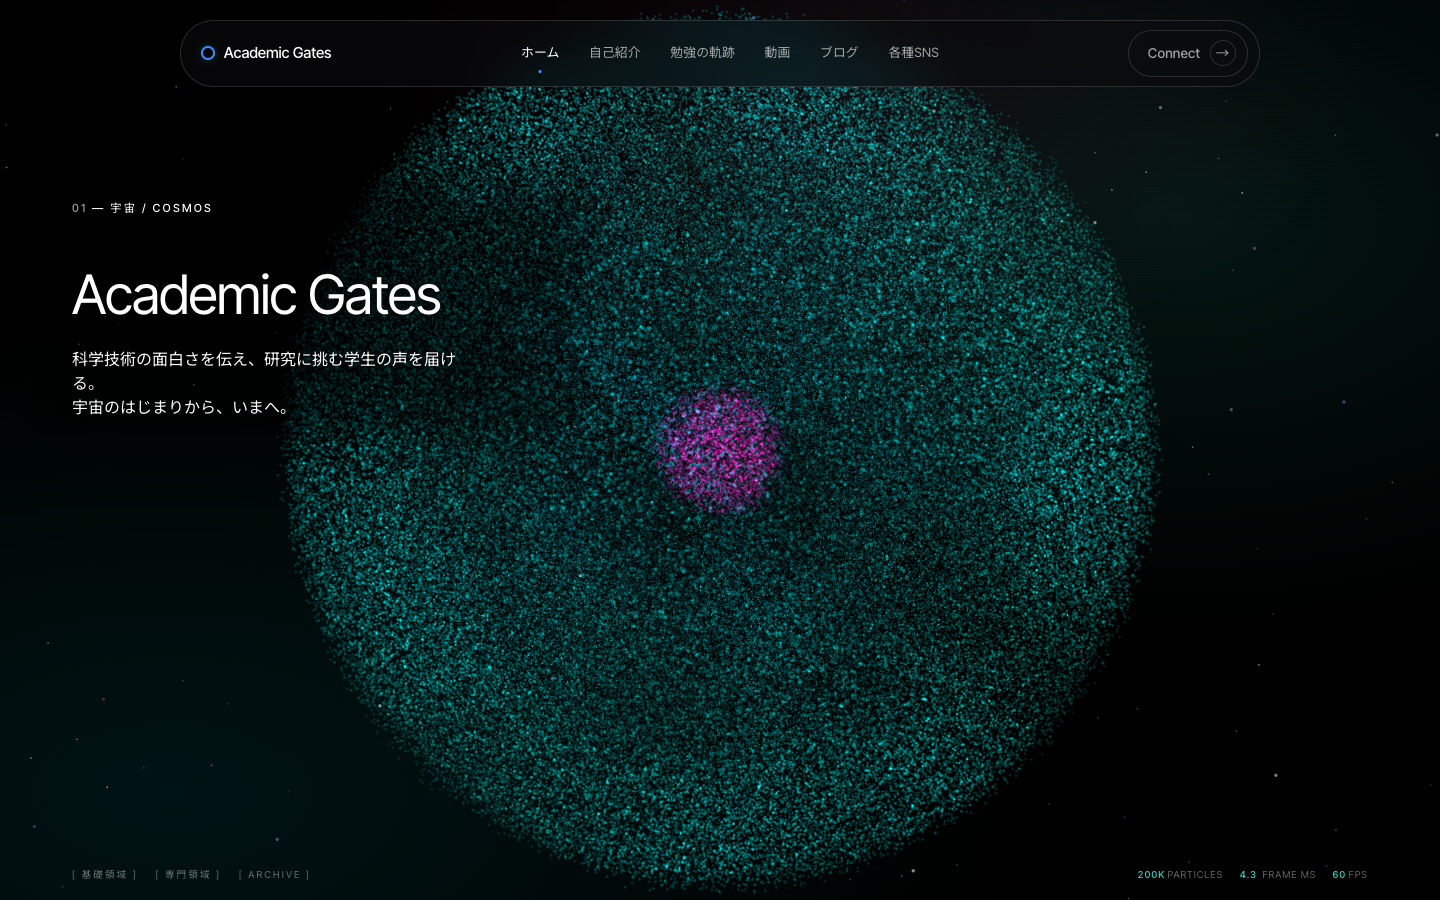
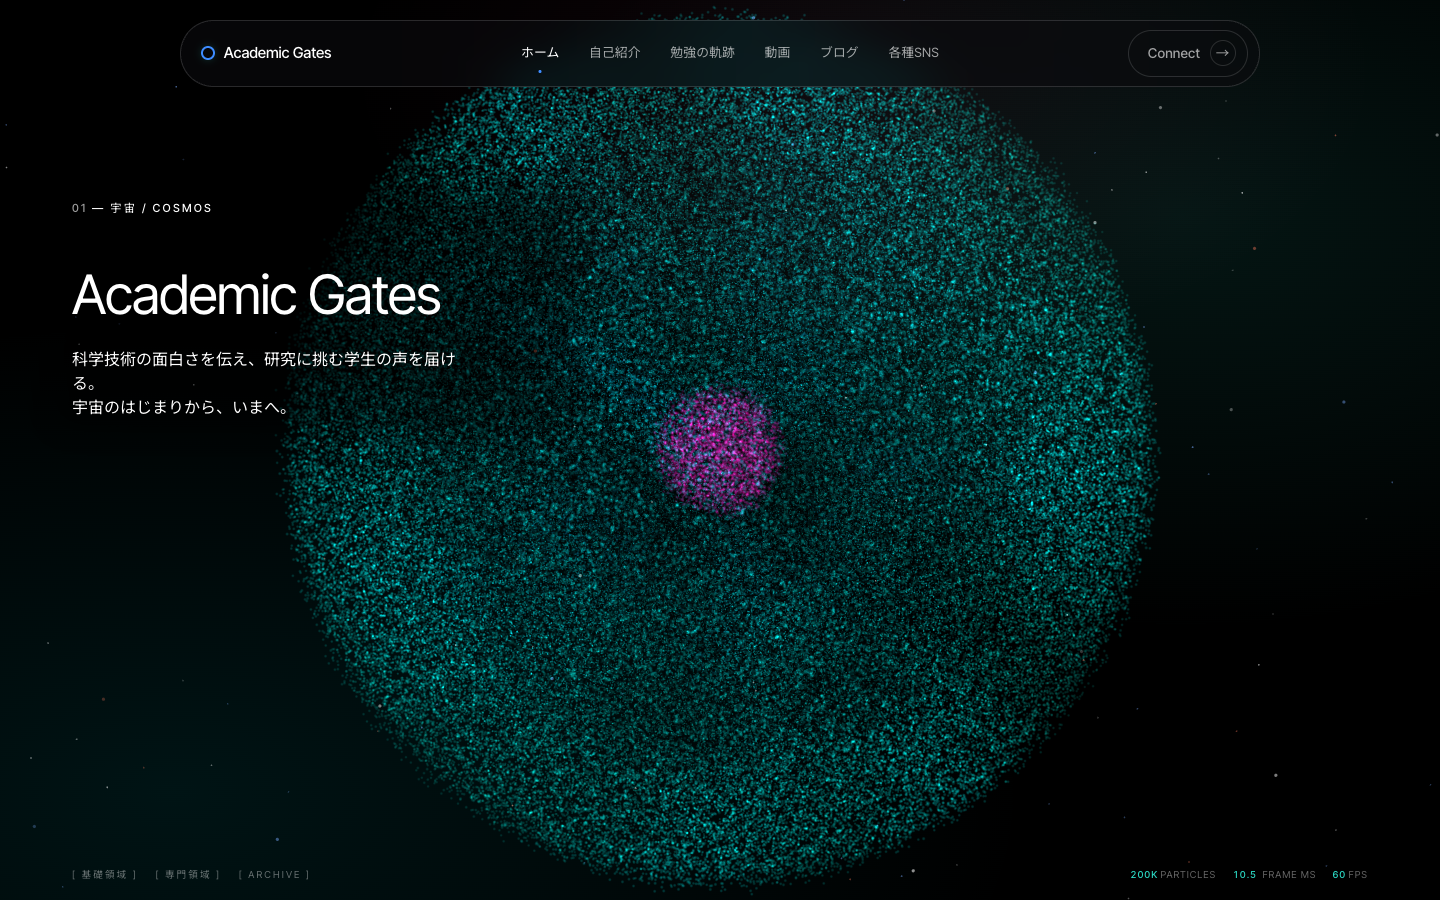
Docs: DESIGN.md 16.7 (network/interaction/contrast follow-up) + refreshed stills
Records the network-edge root cause and snapport-centre fix, the
machine-tested keyboard + find-in-page results, and the rest-position
contrast table including the infra heading fix (2.17 -> 17.1:1).
Refreshes the four rest-position stills at r48.

Claude-Session: https://claude.ai/code/session_01QN4mE29Q2zCvePyqL76fR7

Changed region(s): [[0.1875, 0.0933, 0.8125, 0.9956], [0.7812, 0.9644, 0.8438, 0.9956], [0.5, 0.0, 0.5312, 0.0311]]

diff --git a/Academic-Gate_hp/DESIGN.md b/Academic-Gate_hp/DESIGN.md
@@ -1210,11 +1210,12 @@ centre — still deep inside the plateau):
 |-------|---------------|-----------|
 | 01 cosmos | 0.0000 | **1.0000** |
 | 02 nature | 0.9557 | **1.0000** |
-| 03 network | 1.9554 | **1.0000** |
-| 04 infra  | 2.9554 | **1.0000** |
+| 03 network | ~2.000 | **1.0000** |
+| 04 infra  | ~3.000 | **1.0000** |
 
-(Non-integer sceneF for 02–04 is the pad/2 ≈ 46px snapport inset → fc ≈ 0.044, well within the
-0.20 plateau.) Stills: `docs/stills/s14-rest-0{1..4}-*.png` — each form fully resolved at rest.
+Stills: `docs/stills/s14-rest-0{1..4}-*.png` — each form fully resolved at rest. **(Updated in
+§16.7: the engine now references the snapport centre, so sceneF is an exact integer at rest — the
+table above originally read 0.0/0.956/1.955/2.955 before that fix.)**
 
 ## 16.4 §6 must-not-break — tested, not assumed
 
@@ -1248,3 +1249,51 @@ points — not chosen here.
 `window.__field.wAt(scrollY?)` → the shader's `w` for any viewport-centre scroll position
 (defaults to current); `window.__field.snapRest(i)` → the doc-space scrollY where hero stage `i`
 snaps to rest. Both mirror the shader/CSS exactly and are there for the device pass too.
+
+## 16.7 Round-14 review follow-up (network edges, interaction tests, rest-position contrast)
+
+**1. Network edges regressed → root-cause was the snap rest, not the geometry.** The `make()`
+network build (nodes + 3-nearest edges) and all render globals were **byte-identical** to
+`v2.2-ten-stages` — the thin edge bands were still in the data. The regression came from *where
+the snap parked the view*: the 92px nav-clearance insets the snapport, so `align:center` rested
+network at **sceneF 1.955**, not 2.0. At 1.955 the target is `mix(nature, network, 0.955)` — a
+4.5% blend toward the nature wave that adds a random per-particle displacement ~0.045·S, enough
+to smear the thin, dim (bright 0.48) edge bands into fuzz while the bright node clusters survive.
+Confirmed empirically: a capture at the *true* peak (sceneF 2.0) showed crisp edges; the snap
+rest did not.
+
+Fix (no network rebuild): reference the **snapport centre** in the engine, not the raw viewport
+centre — `midOf() = scrollY + (innerHeight + SNAP_INSET)/2`, where `SNAP_INSET` is read from the
+computed `scroll-padding-top`. A snap rest now lands on an **exact integer sceneF** → a pure
+motif, no cross-blend. This also makes cosmos/nature/infra purer at rest. `w` stays 1.0000 at all
+four (now with fc = 0 exactly). Edges restored to the R13 look: `docs/stills/s14-rest-03-network.png`.
+
+**2. §6 keyboard + find-in-page — machine-tested (not reasoned).**
+- **Keyboard** (synthetic `Input.dispatchKeyEvent`, `keyDown`, from mid-hero scrollY 1500):
+  PageDown 1500→2248 (+748), Space 1500→2248 (+748), ArrowDown 1500→1540 (+40). Every press
+  advances **forward**; the snap never pulls back against a keypress. (First attempt with
+  `rawKeyDown` drove only PageDown — a headless quirk, not a snap effect: ArrowUp also moved 0, so
+  it wasn't directional. `keyDown` drives all three.)
+- **Find-in-page** (its scroll mechanic = select the match Range + `scrollIntoView`): a match on
+  the stage-04 string 回路 scrolled to top 400px and **stayed at 400px** after the snap settled —
+  landed and held, not dragged away.
+
+**3. Rest-position contrast — re-sampled, and it caught a real defect.** Method: hero text set
+`color:transparent` (shadow **retained** — a transparent glyph still casts its shadow, so the
+pixels under the box are the true effective background), luminance vs white text under the
+heading + body boxes at each rest. Headline = **p95** (the max single pixel is one stray particle;
+the median is mostly dark gaps between strokes):
+
+| stage | heading p95 | body p95 |
+|-------|------------|----------|
+| 01 cosmos | 18.5:1 | 16.3:1 |
+| 02 nature | 10.7:1 | 16.3:1 |
+| 03 network | 20.9:1 | 20.8:1 |
+| 04 infra | **17.1:1** | 18.9:1 |
+
+The infra heading **failed on first measurement (2.17:1)** — the bright horizontal lattice band
+crossed the 学びを、社会へ。 row, exactly as flagged. Fix: dim the infra lattice in the **left
+screen third** via clip-space x (`leftDim = mix(1, 0.15+0.85·smoothstep(-0.55,-0.15, ndcx), vInfra)`)
+— infra-only (`vInfra→0` elsewhere), and consistent with the "formation sits on the right"
+composition. Heading went **2.17 → 17.1:1**; the lattice still fills centre+right. Still:
+`docs/stills/s14-rest-04-infra.png`.
